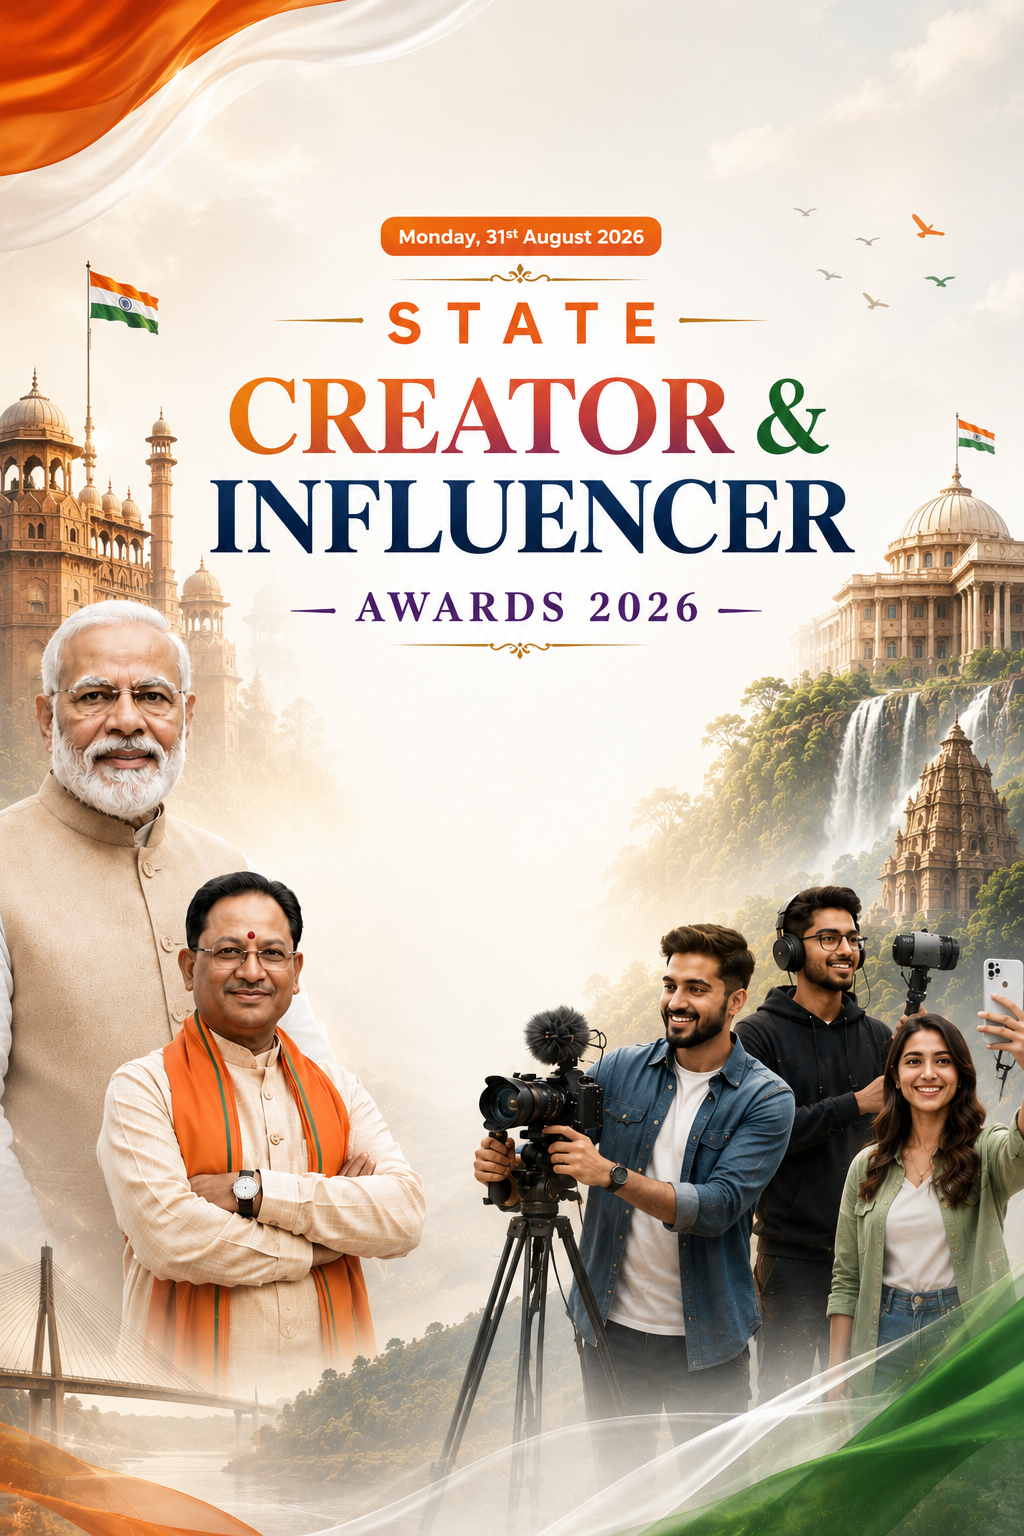
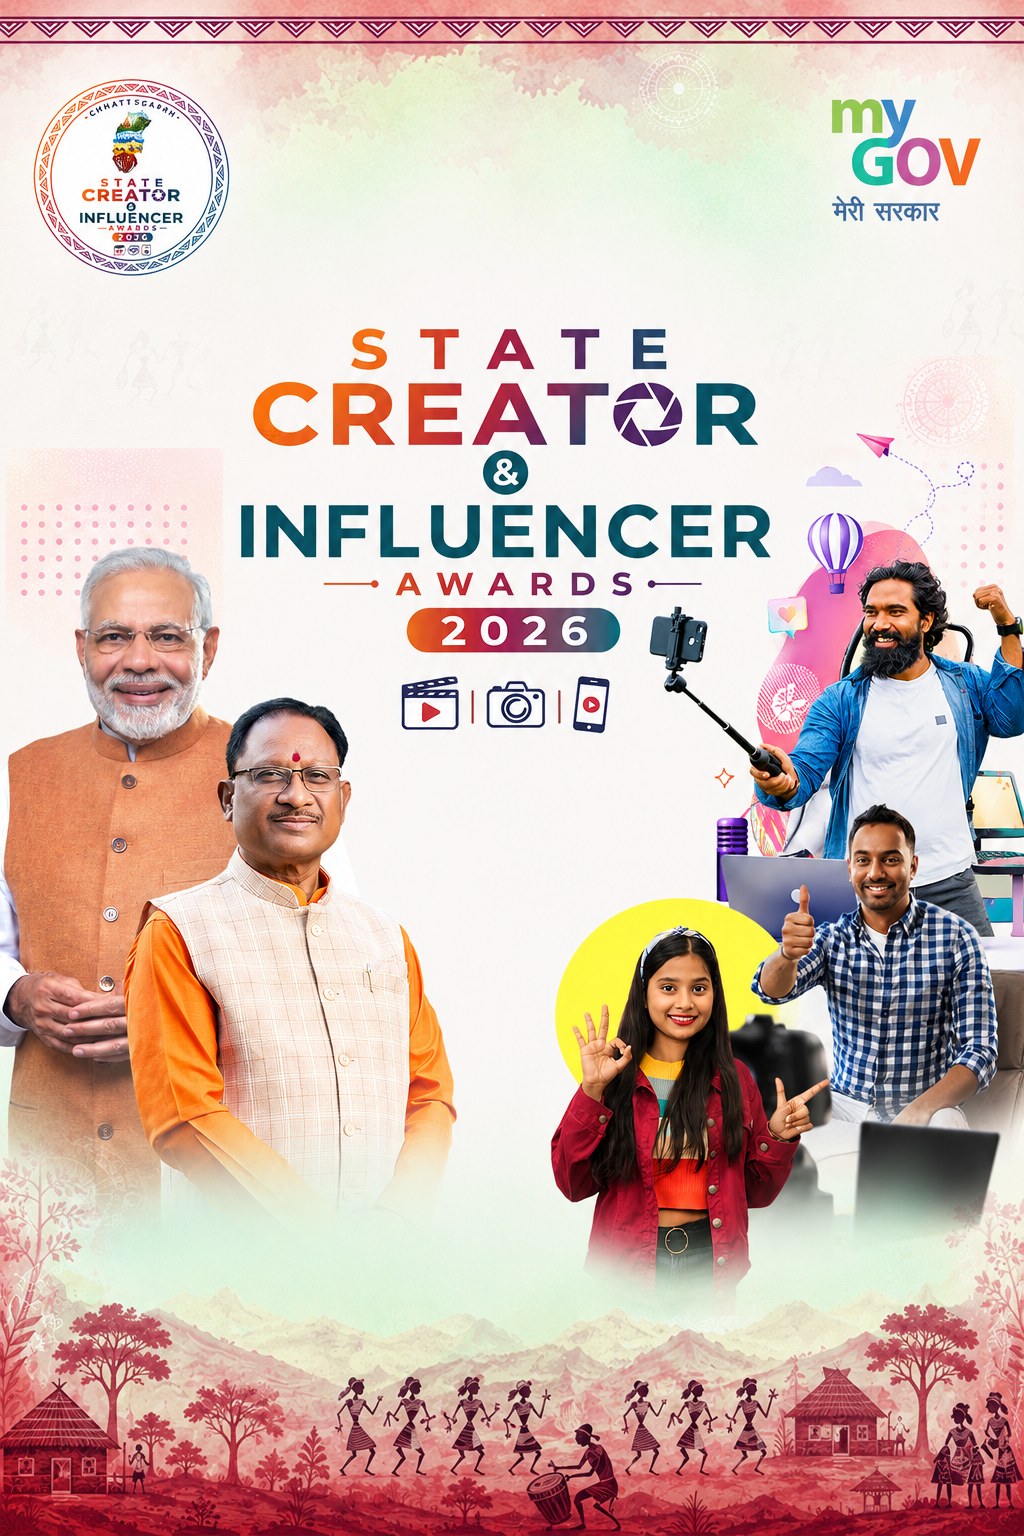
herobanner change

diff --git a/src/components/home/HeroSection.jsx b/src/components/home/HeroSection.jsx
@@ -31,21 +31,15 @@ export default function HeroSection() {
         <img
           src="/assets/images/mob-hero.png"
           alt="Hero Background Banner"
-          className="block md:hidden relative w-full h-auto object-contain select-none z-0"
+          className="block lg:hidden relative w-full h-auto object-contain select-none z-0"
         />
 
-        {/* Hero Background Image - Tablet (full image, no cropping) */}
-        <img
-          src="/assets/images/tablet-hero.png"
-          alt="Hero Background Banner"
-          className="hidden md:block lg:hidden relative w-full h-auto object-contain select-none z-0"
-        />
 
         {/* Apply Now Button — overlaid at the bottom of the banner image, styled to match the banner's pink pill button */}
-        <div className="absolute inset-x-0 bottom-1/2 sm:bottom-1/2 md:bottom-2/5 lg:bottom-1/4 xl:bottom-1/5 z-20 flex justify-center px-4">
+        <div className="absolute inset-x-0 bottom-[45%] sm:bottom-[45%] md:bottom-[45%] lg:bottom-[15%] xl:bottom-[15%]  lg:left-[40] z-20 flex justify-center px-2">
           <button
             onClick={openModal}
-            className="rounded-full bg-gradient-to-b from-[#F798B4] to-[#EE5D8C] hover:from-[#F9A5BE] hover:to-[#E64C8A] px-4 py-2 sm:px-4 sm:py-3 font-bold text-white text-xs sm:text-base md:text-lg tracking-widest shadow-[0_8px_20px_rgba(230,76,138,0.45)] hover:shadow-[0_10px_24px_rgba(230,76,138,0.55)] hover:-translate-y-0.5 active:translate-y-0 transition-all duration-300 cursor-pointer select-none whitespace-nowrap"
+            className="rounded-full bg-gradient-to-b from-[#F798B4] to-[#EE5D8C] hover:from-[#F9A5BE] hover:to-[#E64C8A] px-2 py-2 sm:px-4 sm:py-3 font-bold text-white text-xs sm:text-base md:text-lg tracking-wider shadow-[0_8px_20px_rgba(230,76,138,0.45)] hover:shadow-[0_10px_24px_rgba(230,76,138,0.55)] hover:-translate-y-0.5 active:translate-y-0 transition-all duration-300 cursor-pointer select-none whitespace-nowrap"
           >
             {t("Participate Now")}
           </button>
